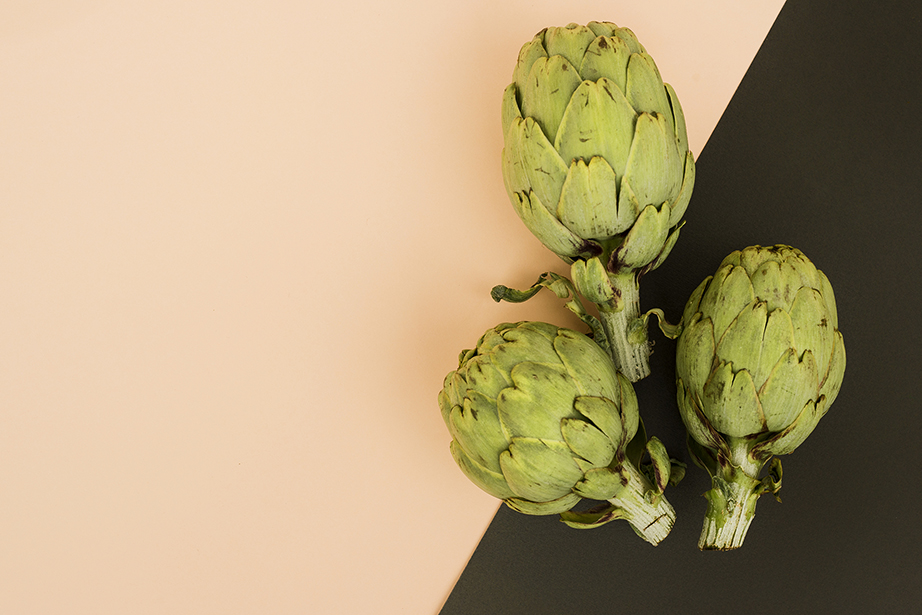
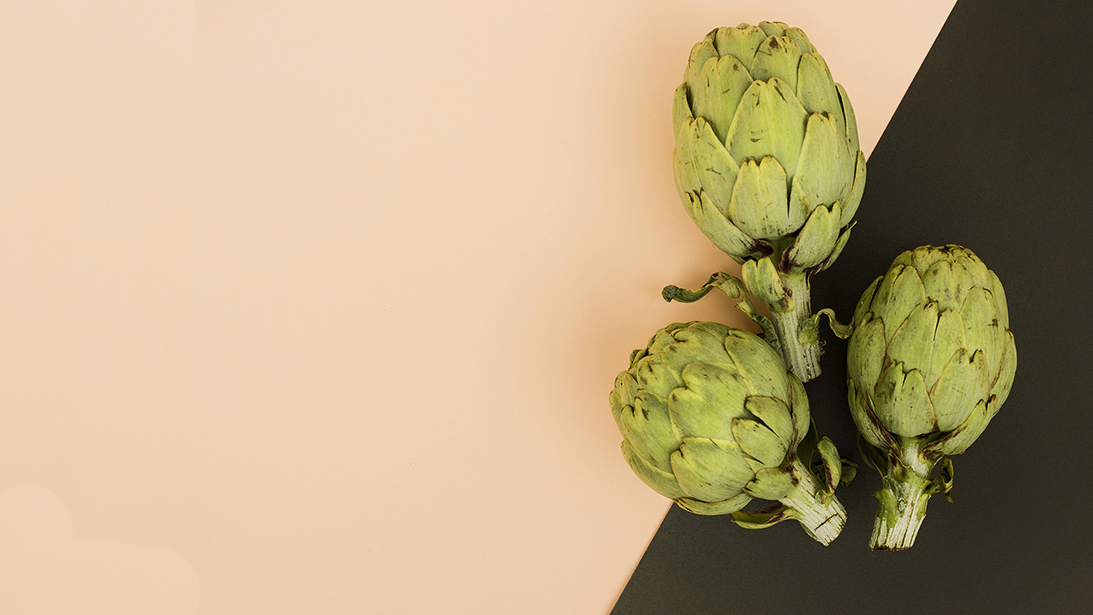
arreglos en diseño

Changed region(s): [[0.3948, 0.0, 0.9414, 1.0]]

diff --git a/almacen.html b/almacen.html
@@ -36,8 +36,8 @@
             </div>
             <section>
                 <h3>Frutas y verduras</h3>
-                <div class="card-group container row row-col-1 row-cols-md-2 g-4 max-width:800px">
-                    <div class="card bg-dark col">
+                <div class="card-group container row row-col-2 row-cols-md-4 g-4 max-width:700px">
+                    <div class="col bg-dark">
                         <img src="Multimedia/Galeria/palta.jpg" class="card-img-top" alt="palta cortada">
                         <div class="card-body bg-dark">
                             <h4 class="card-title text-light">Palta</h4>
@@ -45,7 +45,7 @@
                             <p class="card-text"><small class="text-muted">Productor: Sol Naciente</small></p>
                         </div>
                     </div>
-                    <div class="card bg-dark col">
+                    <div class="col bg-dark">
                         <img src="Multimedia/Galeria/pomelo.jpg" class="card-img-top" alt="pomelo con flor">
                         <div class="card-body bg-dark">
                             <h4 class="card-title text-light">Pomelo rosado</h4>
@@ -53,7 +53,7 @@
                             <p class="card-text"><small class="text-muted">Productor: Vida verde</small></p>
                         </div>
                     </div>
-                    <div class="card bg-dark col">
+                    <div class="col bg-dark">
                         <img src="Multimedia/Galeria/arandanos.jpg" class="card-img-top" alt="arandanos azules">
                         <div class="card-body bg-dark">
                             <h4 class="card-title text-light">Arándanos</h4>
@@ -61,7 +61,7 @@
                             <p class="card-text"><small class="text-muted">Productor: Patagonia cero</small></p>
                         </div>
                     </div>
-                    <div class="card bg-dark col">
+                    <div class="col bg-dark">
                         <img src="Multimedia/Galeria/tomate.jpg" class="card-img-top" alt="tomates rojos enteros redondos">
                         <div class="card-body bg-dark">
                             <h4 class="card-title text-light">Tomate redondo</h4>
@@ -74,8 +74,8 @@
             <br>
             <section>
                 <h3>Frutos Secos</h3>
-                <div class="card-group container row row-col-1 row-cols-md-2 g-4 max-width:800px">
-                    <div class="card bg-dark col">
+                <div class="card-group container row row-col-2 row-cols-md-4 g-4 max-width:700px">
+                    <div class="col bg-dark">
                         <img src="Multimedia/Galeria/almendra.jpg" class="card-img-top" alt="Almendas en cuenco">
                         <div class="card-body bg-dark">
                             <h4 class="card-title text-light">Almendras</h4>
@@ -83,7 +83,7 @@
                             <p class="card-text"><small class="text-muted">Productor: Campo lejano</small></p>
                         </div>
                     </div>
-                    <div class="card bg-dark col">
+                    <div class="col bg-dark">
                         <img src="Multimedia/Galeria/nueces.jpg" class="card-img-top" alt="nueces enteras y mariposa">
                         <div class="card-body bg-dark">
                             <h4 class="card-title text-light">Nueces</h4>
@@ -91,7 +91,7 @@
                             <p class="card-text"><small class="text-muted">Productor: Vida verde</small></p>
                         </div>
                     </div>
-                    <div class="card bg-dark col">
+                    <div class="col bg-dark">
                         <img src="Multimedia/Galeria/avellanas.jpg" class="card-img-top" alt="avellanas">
                         <div class="card-body bg-dark">
                             <h4 class="card-title text-light">avellanas</h4>
@@ -99,7 +99,7 @@
                             <p class="card-text"><small class="text-muted">Productor: Vida verde</small></p>
                         </div>
                     </div>
-                    <div class="card bg-dark col">
+                    <div class="col bg-dark">
                         <img src="Multimedia/Galeria/Castaña-de-Cajú.jpg" class="card-img-top" alt="castanas de caju en cuenco madera">
                         <div class="card-body bg-dark">
                             <h4 class="card-title text-light">Castañas de cajú</h4>

diff --git a/css/estilos.css b/css/estilos.css
@@ -96,6 +96,8 @@ a:hover {
       font-size: 15px; }
     .listadoProductores .listadoProductores__contenedor .contenedor__descripcion {
       font-size: 13px; }
+    .listadoProductores .listadoProductores__contenedor .contenedor__img {
+      border-radius: 5px; }
 
 h3 {
   color: #F0E9E2;
@@ -185,7 +187,8 @@ main {
   grid-area: principal; }
 
 .articuloHome {
-  grid-area: articulo; }
+  grid-area: articulo;
+  background-color: #9EA548; }
 
 .almacen {
   margin: 10px; }
@@ -230,7 +233,9 @@ main {
     grid-area: banner;
     width: 100%;
     height: 400px;
-    font-size: 60px; }
+    font-size: 60px;
+    background-image: url(../Multimedia/Fondos-Banners/background-alcaulcil-md.jpg);
+    background-size: cover; }
   .introHome {
     grid-area: principal;
     height: 300px;
@@ -244,13 +249,14 @@ main {
   .articuloHome {
     grid-area: articulo;
     height: 500px;
-    background-color: #9EA548;
     text-align: center;
     align-content: center;
     padding: 5px 15px 5px 15px; }
   .listadoProductores {
     flex-direction: column;
-    justify-content: space-evenly; } }
+    justify-content: space-evenly; }
+  img {
+    scale: 70%; } }
 
 /* Tablet Styles */
 @media only screen and (min-width: 601px) {
@@ -289,12 +295,11 @@ main {
     padding: 15px 10px 15px 10px; }
   .articuloHome {
     grid-area: articulo;
-    height: 600px;
+    height: 500px;
     text-align: center;
-    background-color: #EFD0B1;
     padding: 10px; }
   img {
-    scale: 80%; }
+    scale: 50%; }
   h3 {
     color: #2E2C20;
     text-transform: uppercase;
@@ -343,10 +348,12 @@ main {
   .articuloHome {
     grid-area: articulo;
     background-color: #9EA548;
-    height: 400px; }
+    height: 500px; }
   h3 {
     font-size: 14px;
     color: #EFD0B1; }
+  img {
+    scale: 80%; }
   .listadoProductores {
     flex-direction: row;
     justify-content: space-evenly; } }

diff --git a/scss/estiloScss.scss b/scss/estiloScss.scss
@@ -146,7 +146,7 @@ a:hover{
             font-size: 13px;
         }
         .contenedor__img{
-            
+            border-radius: 5px;
         }
     }
 }
@@ -291,6 +291,7 @@ legend{
 
     .articuloHome{
         grid-area: articulo;
+        background-color: #9EA548;
     }
 
 
@@ -370,6 +371,8 @@ legend{
             width: 100%;
             height: 400px;
             font-size: 60px;
+            background-image: url(../Multimedia/Fondos-Banners/background-alcaulcil-md.jpg);
+            background-size: cover;
         }
     
         .introHome{
@@ -389,7 +392,6 @@ legend{
         .articuloHome{
             grid-area: articulo;
             height: 500px;
-            background-color: #9EA548;
             text-align: center;
             align-content: center;
             padding: 5px 15px 5px 15px;
@@ -401,6 +403,9 @@ legend{
             justify-content: space-evenly;
         }
 
+        img{
+            scale: 70%;
+        }
 }
 
 /* Tablet Styles */
@@ -465,14 +470,13 @@ legend{
 
         .articuloHome{
             grid-area: articulo;
-            height: 600px;
+            height: 500px;
             text-align: center;
-            background-color: #EFD0B1;
             padding: 10px;
         }
         
         img{
-            scale: 80%;
+            scale: 50%;
         }
 
         h3{
@@ -548,12 +552,16 @@ legend{
         .articuloHome{
             grid-area: articulo;
             background-color: #9EA548;
-            height: 400px;
+            height: 500px;
         }
 
         h3{
             font-size: 14px;
             color: #EFD0B1;
+        }
+
+        img{
+            scale: 80%;
         }
     
     .listadoProductores{

diff --git a/index.html b/index.html
@@ -42,7 +42,8 @@
                 </article>
                 <aside class="articuloHome">
                     <h3>Conocé a nuestro fundador</h3>
-                    <p>Lorem ipsum dolor, sit amet consectetur adipisicing elit. Nam, fugit veritatis. Optio saepe inventore ipsum deleniti suscipit, libero quod obcaecati pariatur aliquid assumenda quae voluptates et consequuntur nemo. Totam, iure.</p>
+                    <p>Juan comenzá allá por el 2016 con el deseo de generar consciencia en el consumo de alimentos sin agrotóxicos y lo llevó a cabo con éxito.</p>
+                    <p>Su objetivo principal es demostrar que este nuevo sistema de producción y distribución es viable y transformador.</p>
                     <div id="carouselExampleIndicators" class="carousel slide" data-bs-ride="carousel">
                         <div class="carousel-indicators">
                           <button type="button" data-bs-target="#carouselExampleIndicators" data-bs-slide-to="0" class="active" aria-current="true" aria-label="Slide 1"></button>
